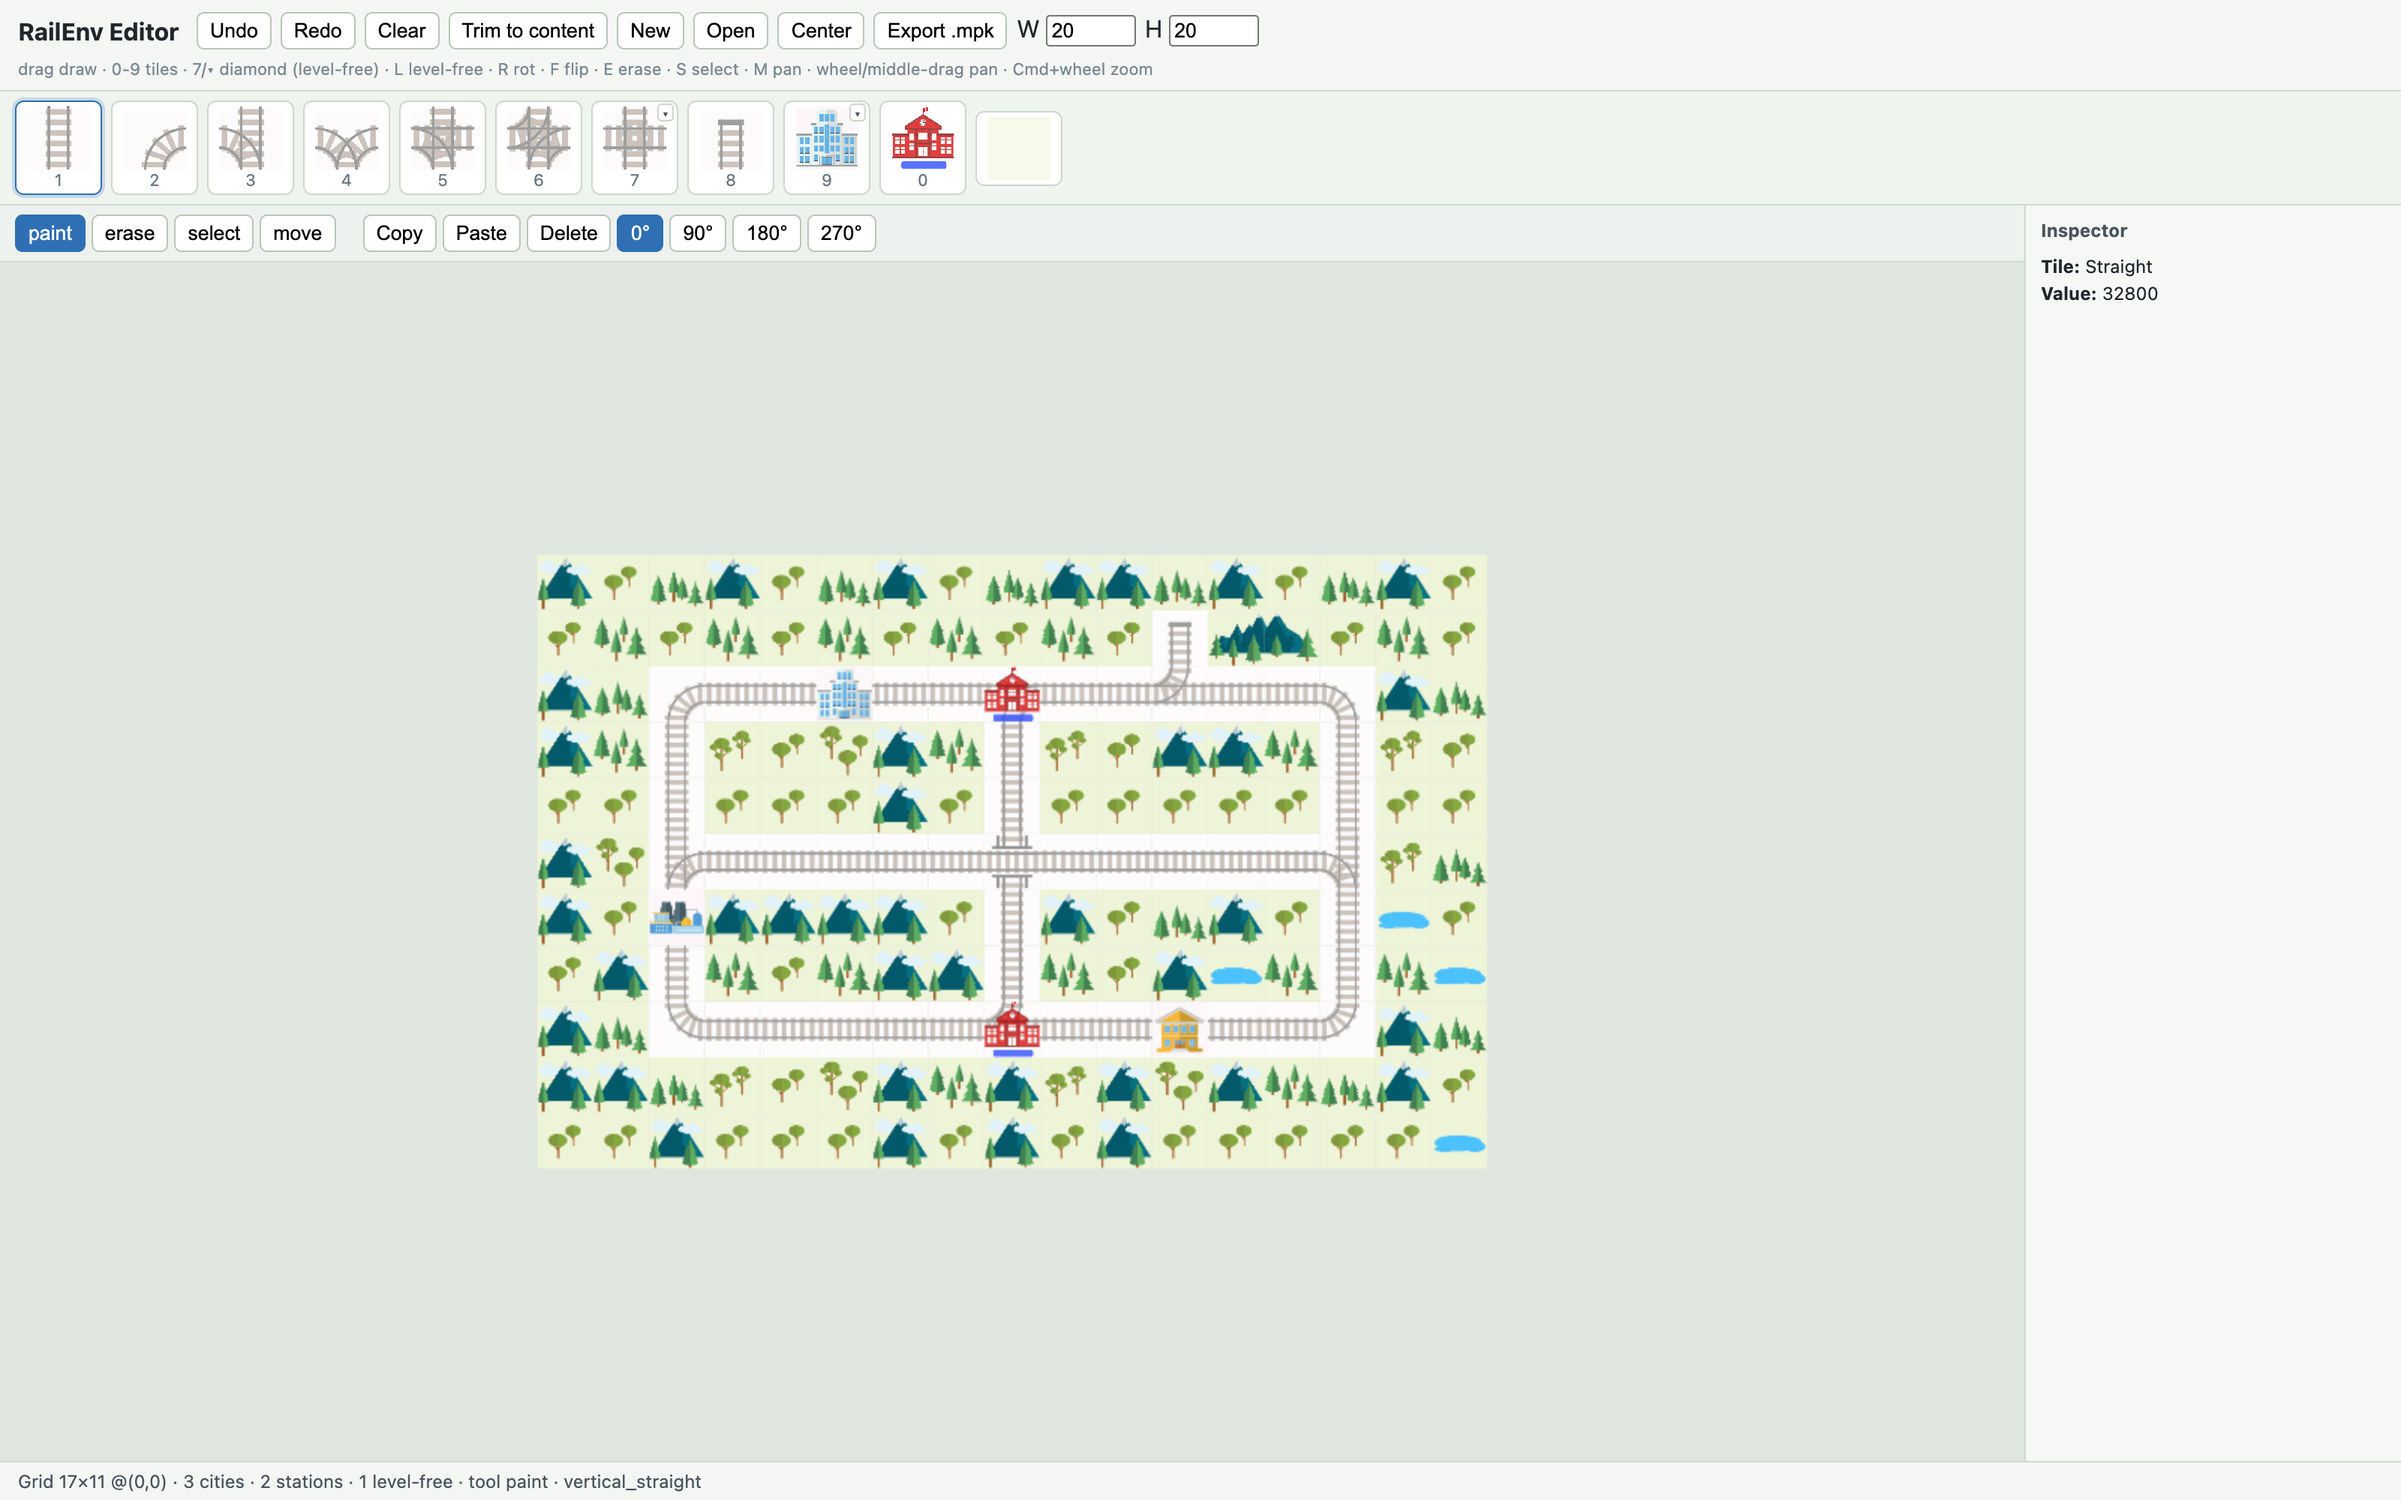
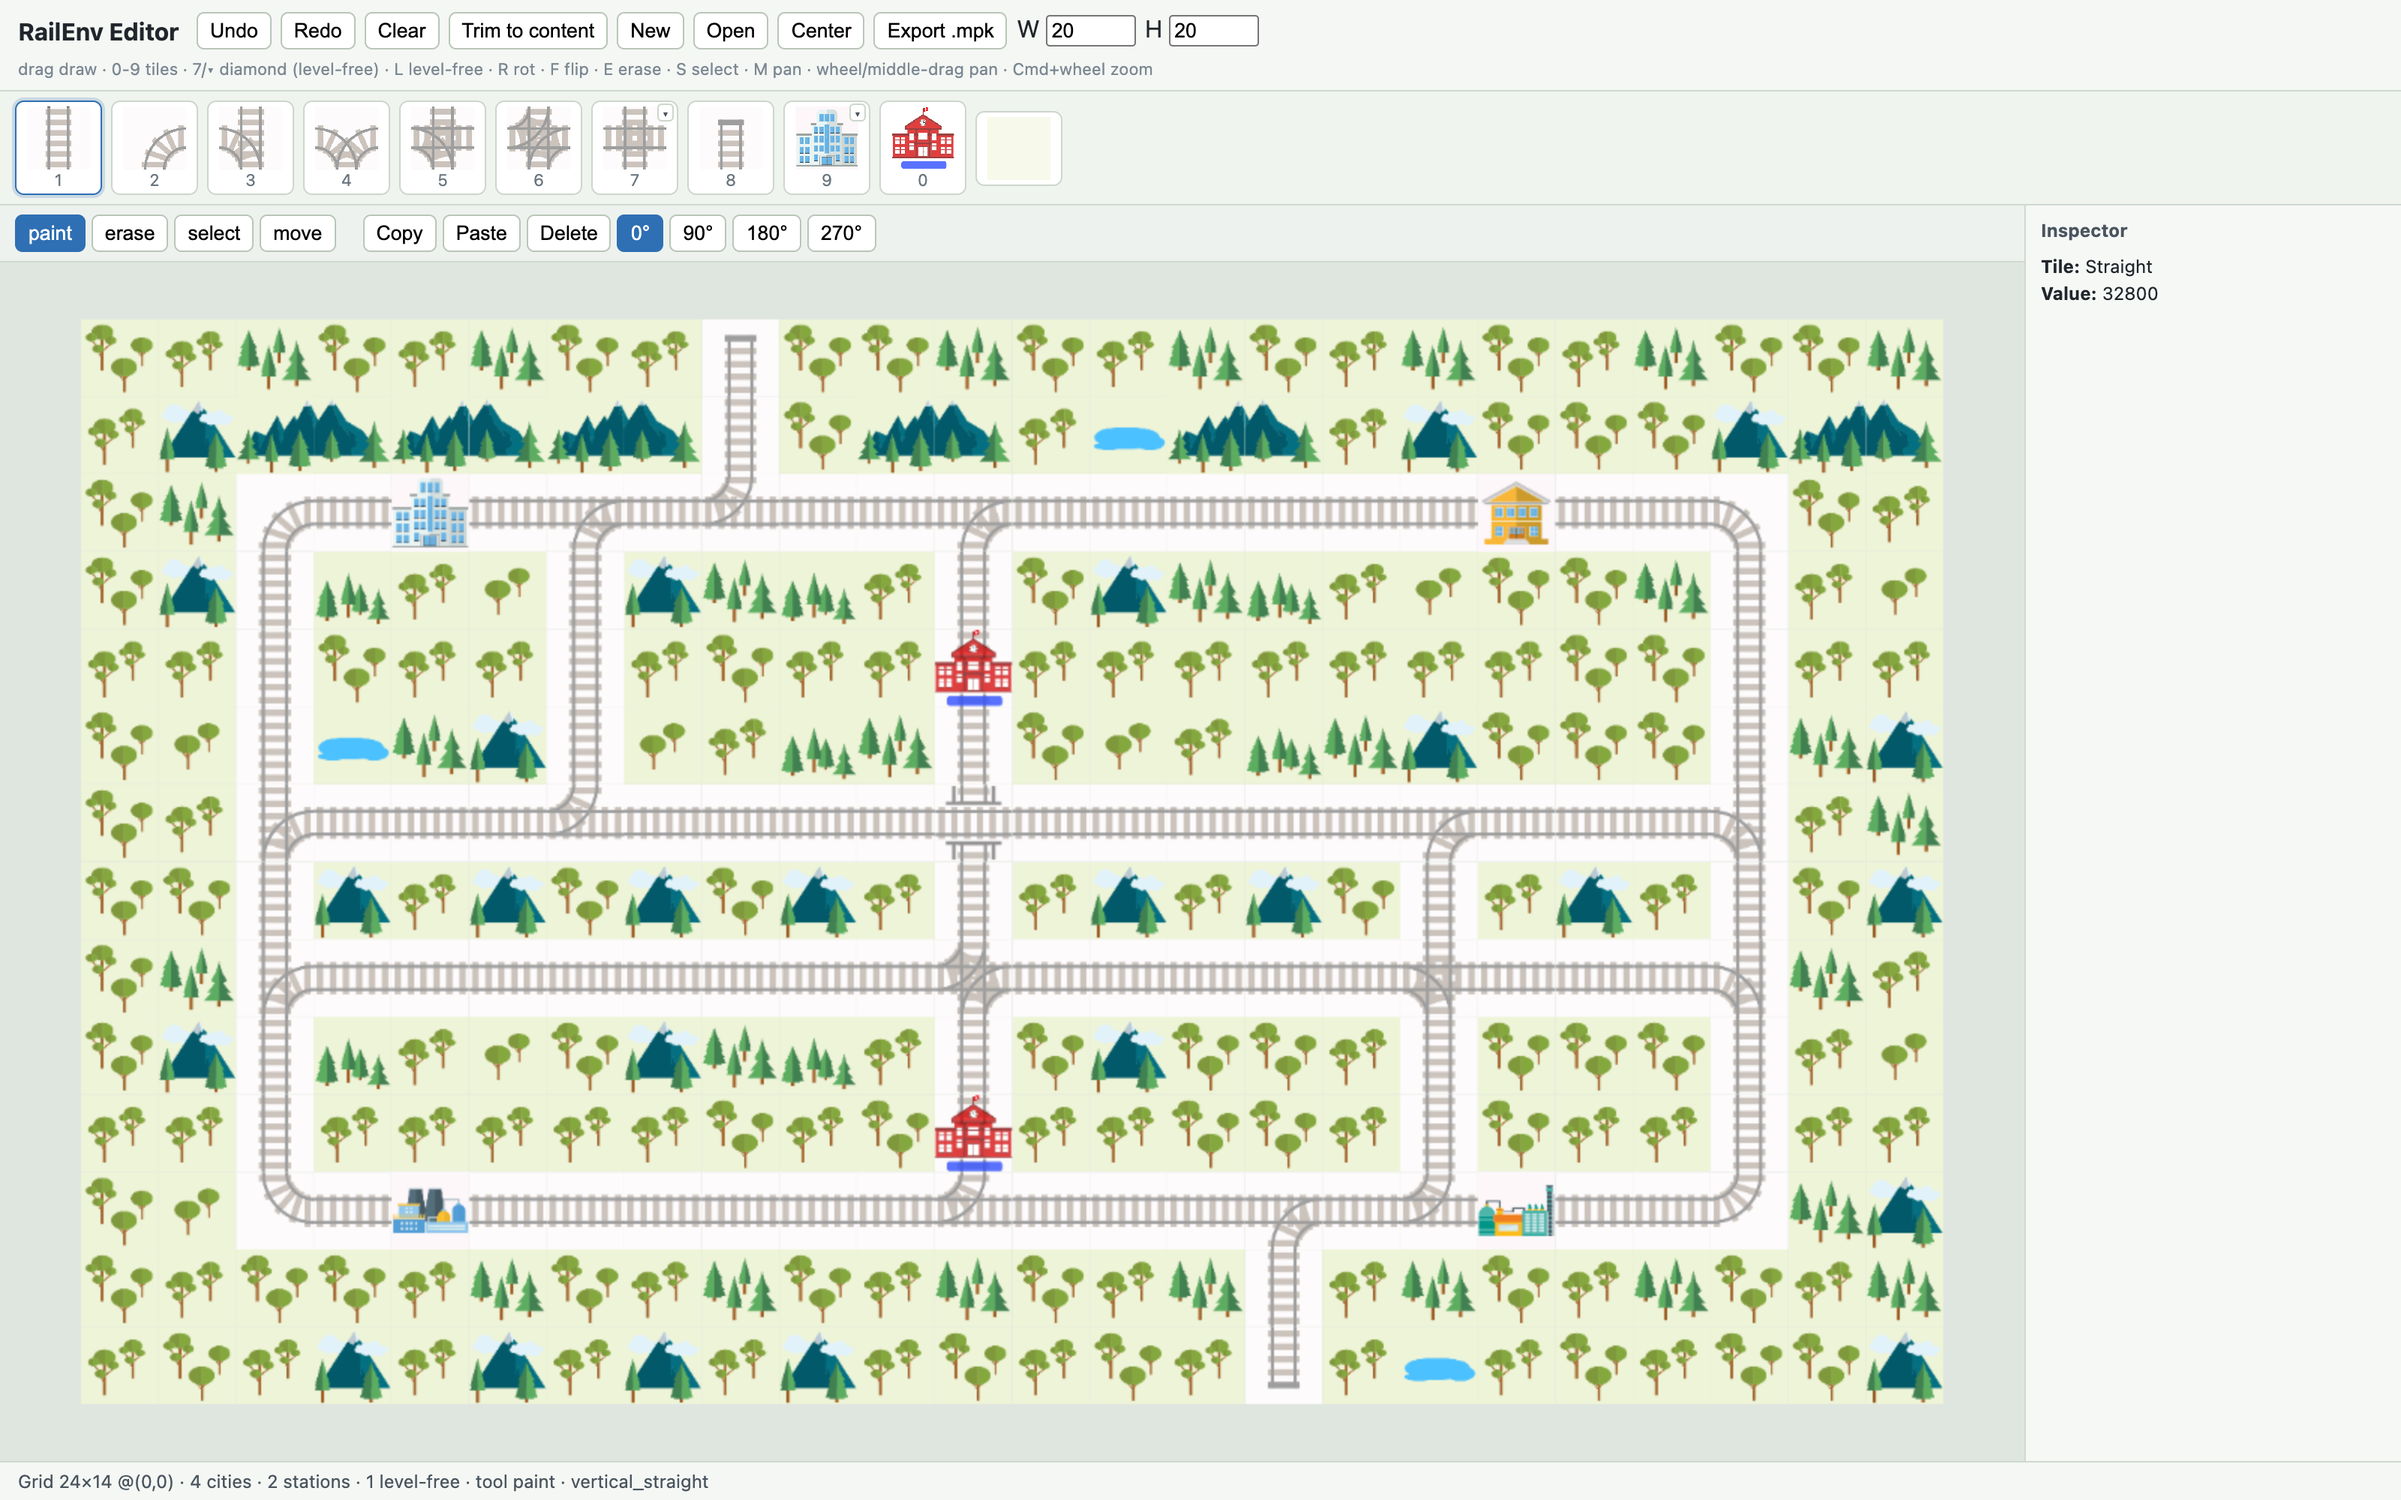
docs: richer, fully-valid demo network + fit-to-canvas hero screenshot

Changed region(s): [[0.0312, 0.217, 0.8125, 0.961], [0.0312, 0.961, 0.2812, 0.992]]

diff --git a/tools/make_demo_map.py b/tools/make_demo_map.py
@@ -1,8 +1,13 @@
 """Build a clean, connected demo network for the README screenshots.
 
 Writes ``web/testmaps/demo.json`` (the editor's JSON map format). The layout is a
-rectangular loop with a diamond crossing in the middle, four simple switches, a
-dead-end spur, city/station markers and one level-free crossing.
+multi-loop network: an outer ring, two horizontal spines, a vertical spine, three
+connectors, a diamond crossing (marked level-free), a single slip, a double slip,
+dead-end spurs, and city/station markers.
+
+Edges are added symmetrically (``link`` adds both directions) and the result is
+validated for reciprocity + Flatland validity, so every track connects and every
+cell is a real ``RailEnvTransitions`` value.
 """
 from __future__ import annotations
 
@@ -13,46 +18,59 @@ from railenv_editor.core import transitions as T
 
 OUT = Path(__file__).resolve().parents[1] / "web" / "testmaps" / "demo.json"
 
-W, H = 17, 11
+W, H = 24, 14
 
-# desired physical connections per cell, as a set of directions (N=0,E=1,S=2,W=3)
+# N=0, E=1, S=2, W=3
+DELTA = {0: (0, -1), 1: (1, 0), 2: (0, 1), 3: (-1, 0)}
+OPP = {0: 2, 2: 0, 1: 3, 3: 1}
+
 cells: dict[tuple[int, int], set[int]] = {}
 
 
-def put(x: int, y: int, dirs: list[int]) -> None:
-    cells[(x, y)] = set(dirs)
+def add_dir(x: int, y: int, d: int) -> None:
+    cells.setdefault((x, y), set()).add(d)
 
 
-# outer loop
-put(2, 2, [1, 2])
-put(14, 2, [2, 3])
-put(14, 8, [0, 3])
-put(2, 8, [0, 1])
-for x in range(3, 14):
-    if x not in (8, 11):
-        put(x, 2, [1, 3])
-for x in range(3, 14):
-    if x != 8:
-        put(x, 8, [1, 3])
-for y in (3, 4, 6, 7):
-    put(2, y, [0, 2])
-    put(14, y, [0, 2])
-# T-junctions on the loop
-put(2, 5, [0, 1, 2])
-put(14, 5, [0, 2, 3])
-put(8, 2, [1, 2, 3])
-put(8, 8, [0, 1, 3])
-# middle cross
-put(8, 5, [0, 1, 2, 3])
-for y in (3, 4, 6, 7):
-    put(8, y, [0, 2])
-for x in list(range(3, 8)) + list(range(9, 14)):
-    put(x, 5, [1, 3])
-# dead-end spur
-put(11, 2, [0, 1, 3])
-put(11, 1, [2])
+def link(x1: int, y1: int, x2: int, y2: int) -> None:
+    """Add a track between adjacent cells (both directions)."""
+    dx, dy = x2 - x1, y2 - y1
+    d = next(k for k, v in DELTA.items() if v == (dx, dy))
+    add_dir(x1, y1, d)
+    add_dir(x2, y2, OPP[d])
 
-# preferred tile value per physical-edge set (turn/straight/simple switch/diamond)
+
+def ring(x0: int, y0: int, x1: int, y1: int) -> None:
+    for x in range(x0, x1):
+        link(x, y0, x + 1, y0)
+        link(x, y1, x + 1, y1)
+    for y in range(y0, y1):
+        link(x0, y, x0, y + 1)
+        link(x1, y, x1, y + 1)
+
+
+def line_h(y: int, x0: int, x1: int) -> None:
+    for x in range(x0, x1):
+        link(x, y, x + 1, y)
+
+
+def line_v(x: int, y0: int, y1: int) -> None:
+    for y in range(y0, y1):
+        link(x, y, x, y + 1)
+
+
+# --- layout -----------------------------------------------------------------
+ring(2, 2, 21, 11)        # outer loop
+line_h(6, 2, 21)          # upper horizontal spine
+line_h(8, 2, 21)          # lower horizontal spine
+line_v(11, 2, 11)         # central vertical spine
+line_v(6, 2, 6)           # upper-left connector
+line_v(17, 6, 11)         # right connector (spans both spines)
+link(8, 2, 8, 1)          # dead-end spur (up)
+link(8, 1, 8, 0)
+link(15, 11, 15, 12)      # dead-end spur (down)
+link(15, 12, 15, 13)
+
+# preferred tile value per physical-edge set (turn / straight / simple switch / diamond)
 PICK = {
     frozenset([0]): 128,
     frozenset([2]): 8192,
@@ -62,17 +80,31 @@ PICK = {
     frozenset([1, 2]): 16386,
     frozenset([1, 3]): 1025,
     frozenset([2, 3]): 4608,
-    frozenset([0, 1, 2]): 49186,  # switch NR
-    frozenset([0, 1, 3]): 3089,   # switch EL
-    frozenset([0, 2, 3]): 37408,  # switch NL
-    frozenset([1, 2, 3]): 17411,  # switch WL
-    frozenset([0, 1, 2, 3]): 33825,  # diamond crossing
+    frozenset([0, 1, 2]): 49186,      # switch NR
+    frozenset([0, 1, 3]): 3089,       # switch EL
+    frozenset([0, 2, 3]): 37408,      # switch NL
+    frozenset([1, 2, 3]): 17411,      # switch WL
+    frozenset([0, 1, 2, 3]): 33825,   # diamond crossing
 }
 
+# hand-picked 4-way tiles to show off slips
+OVERRIDE = {
+    (11, 6): 33825,   # diamond crossing (rendered level-free below)
+    (11, 8): 52275,   # double slip
+    (17, 8): 38433,   # single slip
+}
+
+# --- validate reciprocity ---------------------------------------------------
+for (x, y), dirs in cells.items():
+    for d in dirs:
+        nx, ny = x + DELTA[d][0], y + DELTA[d][1]
+        assert OPP[d] in cells.get((nx, ny), set()), f"dangling track at {(x, y)} dir {d}"
+
+# --- build grid -------------------------------------------------------------
 grid = [[0] * W for _ in range(H)]
 for (x, y), dirs in cells.items():
-    v = PICK[frozenset(dirs)]
-    assert T.is_valid(v), v
+    v = OVERRIDE.get((x, y), PICK[frozenset(dirs)])
+    assert T.is_valid(v), f"invalid tile {v} at {(x, y)}"
     grid[y][x] = v
 
 map_obj = {
@@ -80,11 +112,11 @@ map_obj = {
     "height": H,
     "origin": [0, 0],
     "grid": grid,
-    "cities": [[5, 2, 3], [11, 8, 7], [2, 6, 11]],
-    "stations": [[8, 2], [8, 8]],
-    "level_free": [[8, 5, 0]],
+    "cities": [[4, 2, 3], [18, 2, 7], [4, 11, 11], [18, 11, 15]],
+    "stations": [[11, 4], [11, 10]],
+    "level_free": [[11, 6, 0]],
 }
 
 OUT.parent.mkdir(parents=True, exist_ok=True)
 OUT.write_text(json.dumps(map_obj, indent=2), encoding="utf-8")
-print("wrote", OUT, f"({W}x{H})")
+print("wrote", OUT, f"({W}x{H}, {sum(1 for row in grid for v in row if v)} rail cells)")

diff --git a/tools/screenshot_web.py b/tools/screenshot_web.py
@@ -27,15 +27,16 @@ def _serve(directory: Path) -> tuple[socketserver.TCPServer, int]:
     return httpd, port
 
 
-def _zoom_out(page, delta_y: int = 500) -> None:
-    """Fire the editor's own Ctrl+wheel handler to zoom out and re-fit the view."""
+def _fit_view(page, margin: float = 0.92) -> None:
+    """Zoom so the loaded grid fills the canvas area, then centre it."""
     page.evaluate(
-        """(dy) => {
+        """(m) => {
             const cv = document.getElementById('cv');
-            cv.dispatchEvent(new WheelEvent('wheel', {deltaY: dy, ctrlKey: true, bubbles: true, cancelable: true}));
+            const z = Math.min(cv.clientWidth / (W * CELL), cv.clientHeight / (H * CELL)) * m;
+            zoom = Math.max(0.1, Math.min(20, z));
             centerView();
         }""",
-        delta_y,
+        margin,
     )
 
 
@@ -57,7 +58,7 @@ def main() -> None:
             # clean hero: the whole app with the demo network loaded
             page.set_input_files("#file", str(WEB / "testmaps" / "demo.json"))
             page.wait_for_timeout(500)
-            _zoom_out(page)
+            _fit_view(page)
             page.wait_for_timeout(300)
             page.locator("#wrap").screenshot(path=str(DOCS / "hero.png"))
 
